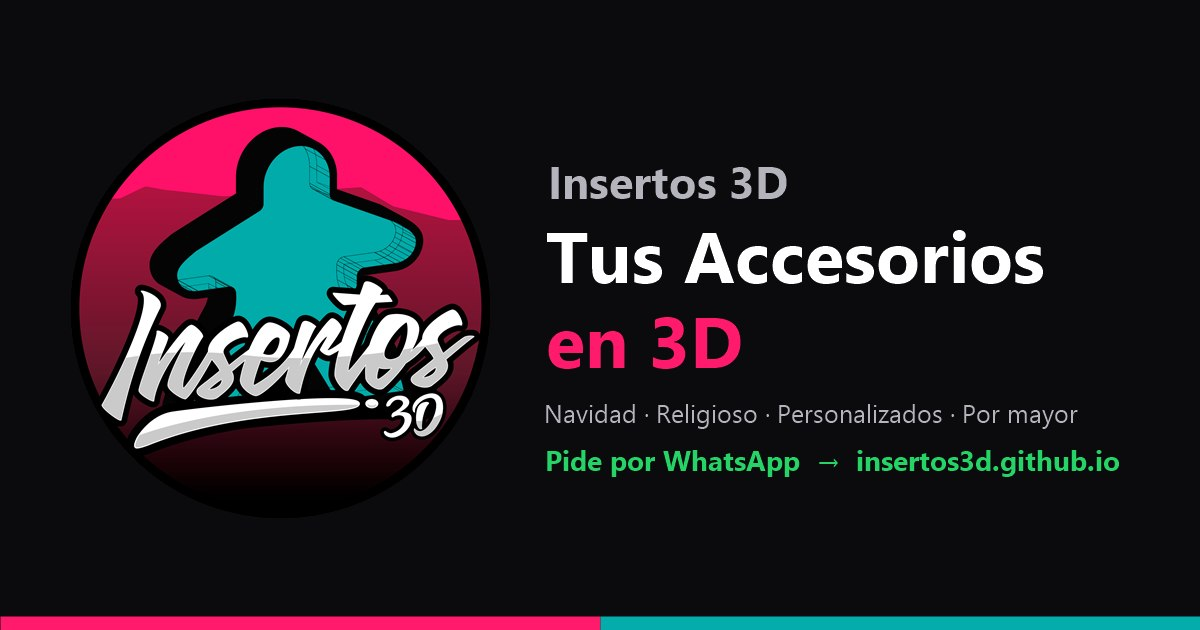
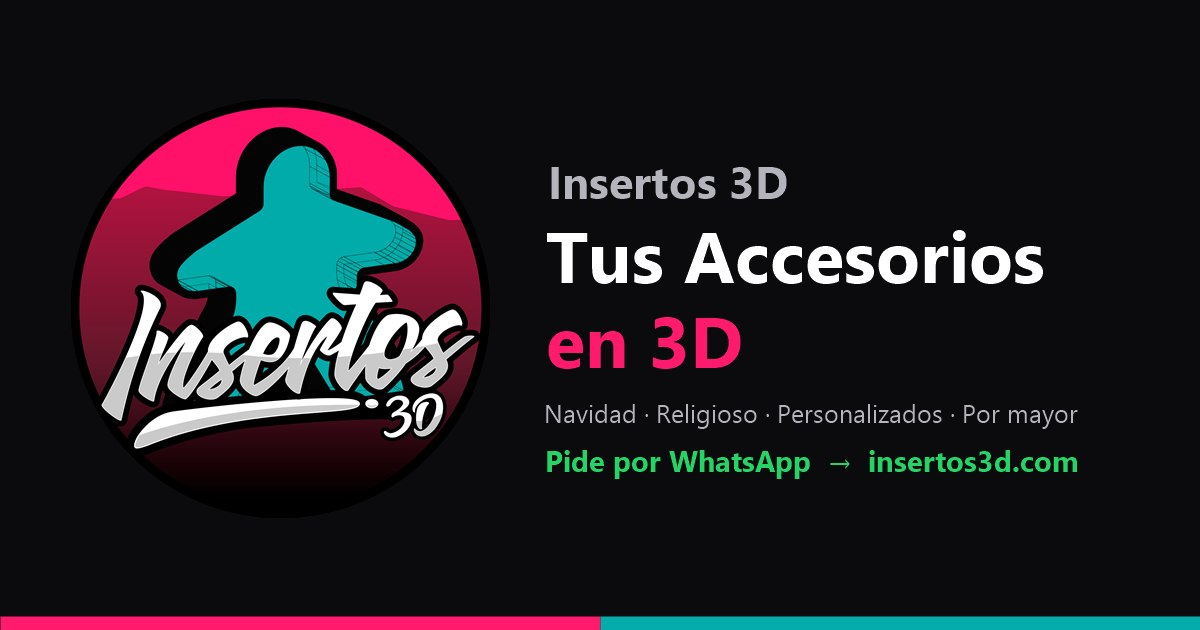
Migra a dominio propio insertos3d.com

Changed region(s): [[0.4625, 0.6937, 0.9558, 0.754]]

diff --git a/index.html b/index.html
@@ -5,17 +5,17 @@
   <meta name="viewport" content="width=device-width, initial-scale=1">
   <title>Insertos 3D · Tus Accesorios en 3D</title>
   <meta name="description" content="Accesorios impresos en 3D: Navidad, llaveros, juegos de mesa, consolas y personalizados. Pedidos por WhatsApp. Precios por mayor.">
-  <link rel="canonical" href="https://insertos3d.github.io/">
+  <link rel="canonical" href="https://insertos3d.com/">
   <!-- Vista previa al compartir el link (WhatsApp, Facebook, Instagram, TikTok, X).
        Las URLs DEBEN ser absolutas. Imagen recomendada: 1200×630, JPG < 300 KB. -->
   <meta property="og:type" content="website">
   <meta property="og:site_name" content="Insertos 3D">
   <meta property="og:locale" content="es_PE">
-  <meta property="og:url" content="https://insertos3d.github.io/">
+  <meta property="og:url" content="https://insertos3d.com/">
   <meta property="og:title" content="Insertos 3D · Tus Accesorios en 3D">
   <meta property="og:description" content="Navidad, religiosos, personalizados y más, impresos en 3D. Arma tu pedido y envíalo por WhatsApp. Precios por mayor.">
-  <meta property="og:image" content="https://insertos3d.github.io/img/marca/compartir-1200x630.jpg">
-  <meta property="og:image:secure_url" content="https://insertos3d.github.io/img/marca/compartir-1200x630.jpg">
+  <meta property="og:image" content="https://insertos3d.com/img/marca/compartir-1200x630.jpg">
+  <meta property="og:image:secure_url" content="https://insertos3d.com/img/marca/compartir-1200x630.jpg">
   <meta property="og:image:type" content="image/jpeg">
   <meta property="og:image:width" content="1200">
   <meta property="og:image:height" content="630">
@@ -23,7 +23,7 @@
   <meta name="twitter:card" content="summary_large_image">
   <meta name="twitter:title" content="Insertos 3D · Tus Accesorios en 3D">
   <meta name="twitter:description" content="Arma tu pedido y envíalo por WhatsApp. Precios por mayor.">
-  <meta name="twitter:image" content="https://insertos3d.github.io/img/marca/compartir-1200x630.jpg">
+  <meta name="twitter:image" content="https://insertos3d.com/img/marca/compartir-1200x630.jpg">
   <meta name="theme-color" content="#0b0b0d">
   <link rel="apple-touch-icon" href="img/marca/logo.png">
   <link rel="icon" href="img/marca/favicon.png">

diff --git a/CHANGELOG.md b/CHANGELOG.md
@@ -2,6 +2,11 @@
 
 Formato basado en [Keep a Changelog](https://keepachangelog.com/es-ES/1.1.0/). Fechas en AAAA-MM-DD.
 
+## [1.6.0] - 2026-11-17
+### Cambiado
+- Dominio propio **insertos3d.com** (Cloudflare Registrar, DNS only → GitHub Pages). `insertos3d.github.io` redirige.
+- Open Graph, canonical, imagen para compartir y documentación con el nuevo dominio.
+
 ## [1.5.0] - 2026-11-17
 ### Cambiado
 - Carrito: productos siempre visibles; “Tus datos” plegable con resumen; total y botones fijos abajo;

diff --git a/README.md b/README.md
@@ -3,8 +3,8 @@
 > **Tus Accesorios en 3D** — catálogo con carrito sin registro, pedidos por WhatsApp,
 > panel de administrador y métricas por producto y por publicación.
 
-- **Web pública:** https://insertos3d.github.io
-- **Panel de administrador:** https://insertos3d.github.io/admin.html
+- **Web pública:** https://insertos3d.com
+- **Panel de administrador:** https://insertos3d.com/admin.html
 - **Hosting:** GitHub Pages (estático, gratis) · **Datos:** Supabase (Postgres + Auth + Storage)
 
 ---

diff --git a/docs/OPERACION.md b/docs/OPERACION.md
@@ -1,7 +1,7 @@
 # Operación diaria
 
 ## Entrar al panel
-https://insertos3d.github.io/admin.html → correo y contraseña del administrador.
+https://insertos3d.com/admin.html → correo y contraseña del administrador.
 
 ## Productos
 | Quiero… | Cómo |
